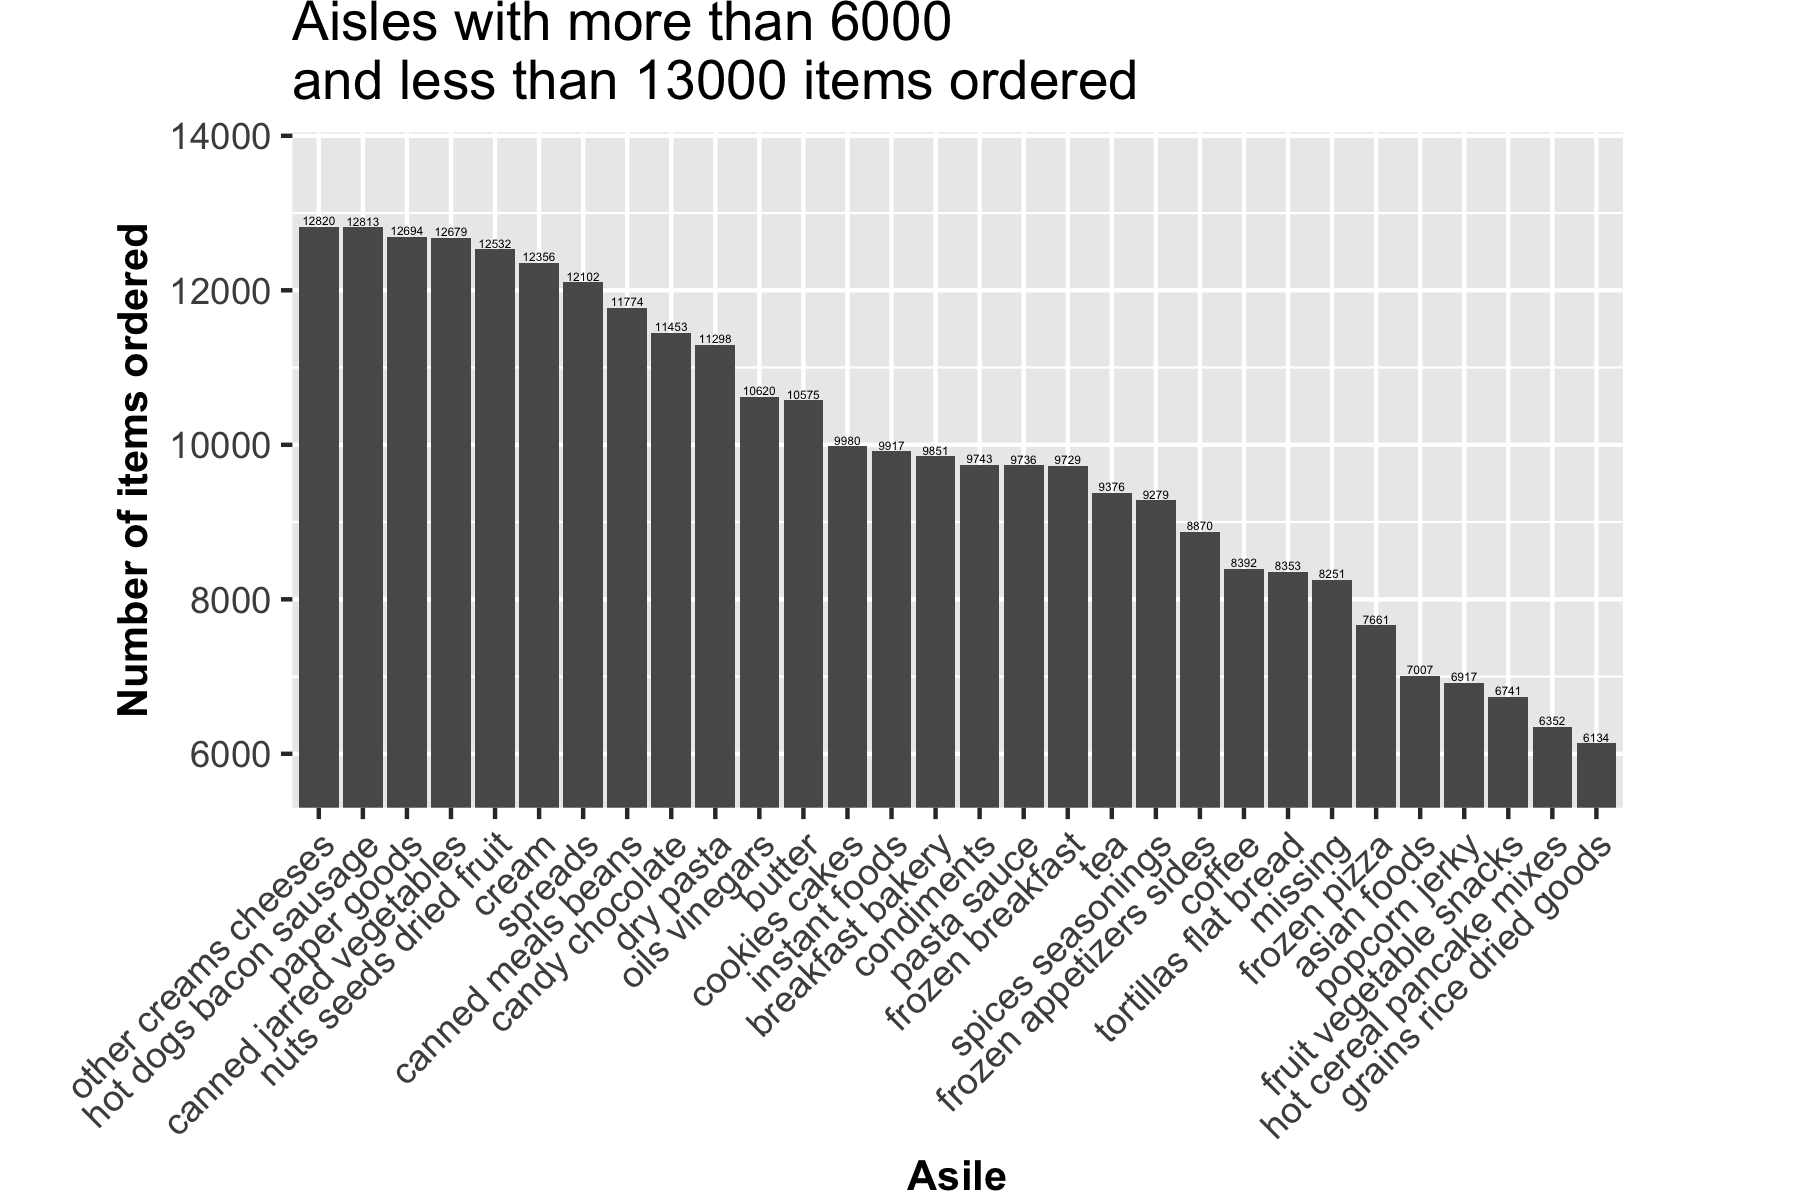
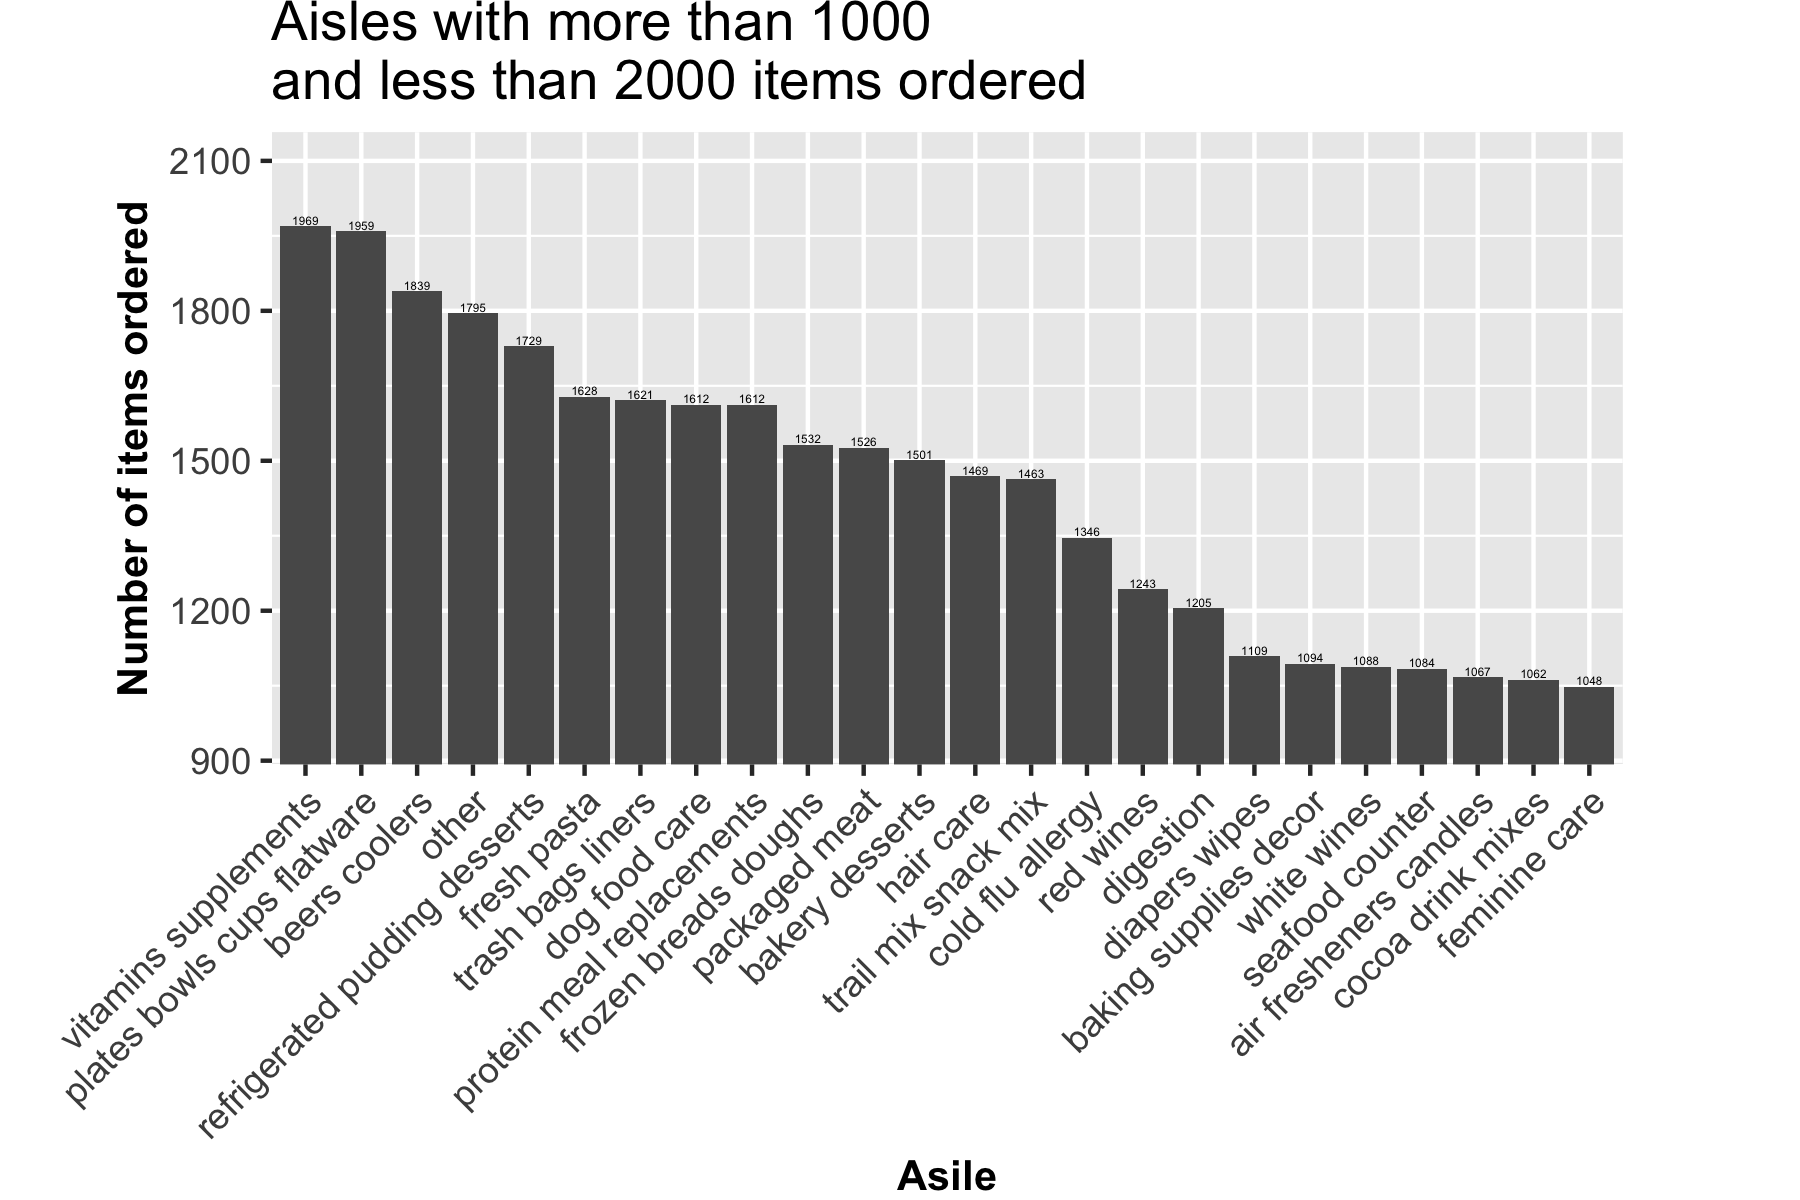
polishing the comments

Changed region(s): [[0.0311, 0.0, 0.9022, 0.9558], [0.4978, 0.9558, 0.56, 1.0]]

diff --git a/p8105_hw3_js5354.md b/p8105_hw3_js5354.md
@@ -1,12 +1,13 @@
-P8105 HW3
+P8105 Homework 3
 ================
 Jiayi Shen
-10/06/2018
+10/14/2018
 
 Problem 1
 =========
 
 ``` r
+# tidying up BRFSS data
 brfss_smart2010 = brfss_smart2010 %>% 
   janitor::clean_names() %>% 
   filter(topic == "Overall Health") %>% 
@@ -30,7 +31,7 @@ brfss_smart2010 %>%
     ## 2 FL               7
     ## 3 NC               7
 
-In 2002, CT, FL and NC were observed at 7 locations.
+In 2002, Connecticut, Florida and North Carolina were observed at 7 locations.
 
 ``` r
 # create a relevant dataframe for spaghetti plot
@@ -46,7 +47,7 @@ ggplot(spaghetti_df, aes(x = year, y = n, color = locationabbr)) +
   geom_point() +
   labs(x = "Year", 
        y = "Num. of locations",
-       title = "The number of locations in each state\nfrom 2002 to 2010") +
+       title = "Number of locations in each state from 2002 to 2010") +
    theme(legend.position = "bottom", 
          legend.text = element_text(size = 9),
          axis.title=element_text(size = 9,face = "bold")) +
@@ -55,7 +56,7 @@ ggplot(spaghetti_df, aes(x = year, y = n, color = locationabbr)) +
 
 ![](p8105_hw3_js5354_files/figure-markdown_github/spaghetti%20plot-1.png)
 
-This line plot demonstrates the number of observations each year in each state. The time frame ranges from 2002 to 2010. One line represents the trend in he number of observations in one state. Different states are colored differently.
+The line plot above shows changes in the number of locations of each state in the BRFSS data from 2002 to 2010. Lines are colored by which state they represent. It is noticable that FL had more than 40 locations submitting their responses in 2007 and 2010, which is about twice the number of locations in the other states in these two years.
 
 ``` r
 #First filter brfss data accordingly, and then calculate the mean and sd.
@@ -77,11 +78,13 @@ brfss_smart2010 %>%
 From 2002 to 2006, the average proportion of excellent response in all locations across NY dropped from 24.0% to 22.5%. And from 2006 to 2010, this proportion stayed relatively flat, around 22.5%. The variance between each location across the NY state decreased from 2002 to 2006 and then to 2010.
 
 ``` r
+# create a relevant dataframe for plotting
 brfss_state_avg = 
 brfss_smart2010 %>% 
   group_by(year, locationabbr, response) %>% 
   summarize(avg_prop = mean(data_value))
 
+# plot brfss_state_avg
 ggplot(brfss_state_avg, aes(x = year, y = avg_prop, color = locationabbr))+
   geom_line()+
   labs(x = "Year",
@@ -104,9 +107,29 @@ In general, the average proportion of responding either "excellent" or "very goo
 Problem 2
 =========
 
+``` r
+# load instacart data and have a quick look 
+data(instacart, package = "p8105.datasets") 
+head(instacart)
+```
+
+    ## # A tibble: 6 x 15
+    ##   order_id product_id add_to_cart_ord… reordered user_id eval_set
+    ##      <int>      <int>            <int>     <int>   <int> <chr>   
+    ## 1        1      49302                1         1  112108 train   
+    ## 2        1      11109                2         1  112108 train   
+    ## 3        1      10246                3         0  112108 train   
+    ## 4        1      49683                4         0  112108 train   
+    ## 5        1      43633                5         1  112108 train   
+    ## 6        1      13176                6         0  112108 train   
+    ## # ... with 9 more variables: order_number <int>, order_dow <int>,
+    ## #   order_hour_of_day <int>, days_since_prior_order <int>,
+    ## #   product_name <chr>, aisle_id <int>, department_id <int>, aisle <chr>,
+    ## #   department <chr>
+
 The `instacart` dataset contains 1384617 observations and 15 variables, storing information related to orders placed on the instacart app. The dataset not only includes numeric variables, such as order ID and user ID, but also character variables like descriptive product names and department names, and a logical variable `reordered` stating whether the order was placed first time or not.
 
-Taking `order_id` =1 placed by `user_id` = 112108 as an example, this specific order was consist of 8 items with their `product_id`, `product_name` and the order in which each item was added to the cart (`add_to_cart_order`) stated. If `reordered` =1, it means that the particular item was not the first time that customer purchased. `order_number` refers to the sequence number of this order that the user placed. In this order, the user purchased four of everything. `order_dow` = 4 and `order_hour_of_day` =12 means this order was placed on a Thursday on 12pm. It had been 30 days (`days_since_prior_order` = 30) since this user placed his/her last order on instacart. Information related to the location of each product in the supermarket is specified in `aisle_id`, `aisle`, `department_id` and `department`.
+Taking `order_id` =1 placed by `user_id` = 112108 as an example, this specific order was consist of 8 items with their `product_id`, `product_name` and the order in which each item was added to the cart (`add_to_cart_order`) stated. If `reordered` =1, it means that the particular item was not the first time that customer purchased. `order_number` refers to the sequence number of this order that the user placed. In this case, the user purchased four of everything. `order_dow` = 4 and `order_hour_of_day` =12 means this order was placed on a Thursday on 12pm. It had been 30 days (`days_since_prior_order` = 30) since this user placed his/her last order on instacart. Information related to the location of each product in the supermarket is specified in `aisle_id`, `aisle`, `department_id` and `department`.
 
 ``` r
 # The number of distinct aisles
@@ -151,7 +174,7 @@ instacart %>%
     ## 10 bread                          23635
     ## # ... with 124 more rows
 
-Fresh fruits and vegetables are the two aisles from which most items are ordered. The frequency of fresh fruits/vegetables appeared in this dataset almost double the frequency of the third most popular aisle, packaged vegetables fruits.
+There are in total 134 aisles. Among these, fresh fruits and fresh vegetables are the two aisles from which most items are ordered. The frequency of fresh fruits/vegetables appeared in this dataset almost double the frequency of the third most popular aisle, packaged vegetables fruits.
 
 ``` r
 # create a relevant dataframe for further plotting
@@ -161,7 +184,7 @@ instacart %>%
   summarize(n = n()) %>% 
   arrange(desc(n))
 
-# create a function to plot aisles with item number within specific interval.
+# create a function to plot aisles with item number within a specific interval.
 plot_aisle = function (lower_lim, upper_lim){
 
   ggplot(filter(aisle_freq, n >= lower_lim & n < upper_lim), aes(x = reorder(aisle, -n), y = n)) +
@@ -182,13 +205,13 @@ aisle_p3 = plot_aisle (2000, 6000)
 aisle_p4 = plot_aisle (6000, 13000)
 aisle_p5 = plot_aisle (13000, 151000)
 
-aisle_p1  
+aisle_p5  
 ```
 
 ![](p8105_hw3_js5354_files/figure-markdown_github/plotting%20n.%20of%20items%20in%20each%20aisle-1.png)
 
 ``` r
-aisle_p2  
+aisle_p4  
 ```
 
 ![](p8105_hw3_js5354_files/figure-markdown_github/plotting%20n.%20of%20items%20in%20each%20aisle-2.png)
@@ -200,16 +223,18 @@ aisle_p3
 ![](p8105_hw3_js5354_files/figure-markdown_github/plotting%20n.%20of%20items%20in%20each%20aisle-3.png)
 
 ``` r
-aisle_p4 
+aisle_p2 
 ```
 
 ![](p8105_hw3_js5354_files/figure-markdown_github/plotting%20n.%20of%20items%20in%20each%20aisle-4.png)
 
 ``` r
-aisle_p5 
+aisle_p1 
 ```
 
 ![](p8105_hw3_js5354_files/figure-markdown_github/plotting%20n.%20of%20items%20in%20each%20aisle-5.png)
+
+The 5 bar charts above demonstrate the number of items ordered in the 134 aisles in `instacart` dataset. Bars are ordered descendingly from left to right in every subplot. The range of items ordered across different asiles is very broad, from less than 300 to over 150,000.
 
 ``` r
 # make a table showing the most popular item in aisles "baking ingredients", "dog food care", "packaged vegetables fruits"
@@ -233,6 +258,7 @@ instacart %>%
 The most popular item in aisles "baking ingredients", "dog food care", "packaged vegetables fruits" are "Light Brown Sugar", "Snack Sticks Chicken & Rice Recipe Dog Treats", and "Organic Baby Spinach" respectively. A total of 9784 portions of "Organic Baby Spinach" were purchased in this data.
 
 ``` r
+# filter product_name and then make adjustments to date/time variables accordingly.
 instacart %>% 
   filter(product_name %in% c("Pink Lady Apples", "Coffee Ice Cream")) %>% 
   group_by(order_dow) %>% 
@@ -263,6 +289,21 @@ Generally, Pink Lady Apples and Coffee Ice Cream are ordered in early afternoon,
 
 Problem 3
 =========
+
+``` r
+data(ny_noaa, package = "p8105.datasets")
+head(ny_noaa)
+```
+
+    ## # A tibble: 6 x 7
+    ##   id          date        prcp  snow  snwd tmax  tmin 
+    ##   <chr>       <date>     <int> <int> <int> <chr> <chr>
+    ## 1 US1NYAB0001 2007-11-01    NA    NA    NA <NA>  <NA> 
+    ## 2 US1NYAB0001 2007-11-02    NA    NA    NA <NA>  <NA> 
+    ## 3 US1NYAB0001 2007-11-03    NA    NA    NA <NA>  <NA> 
+    ## 4 US1NYAB0001 2007-11-04    NA    NA    NA <NA>  <NA> 
+    ## 5 US1NYAB0001 2007-11-05    NA    NA    NA <NA>  <NA> 
+    ## 6 US1NYAB0001 2007-11-06    NA    NA    NA <NA>  <NA>
 
 The `ny_noaa` dataset contains 2595176 records and 7 variables relevant to national-wise daily weather data. The records are reported from 747 distinct stations, from 1981-01-01 to 2010-12-31. Precipitation (in tenths of mm), snowfall (in mm), snow depth (in mm) and maximun / minimum temperature (in tenths of degree C) are the variables included in this dataset.
 
@@ -364,6 +405,7 @@ filter (avg_temp_jul, avg_temp == min(avg_temp_jul$avg_temp))
 In general, the average temperature in January/July in each station of NY state follows relatively similar pattern across 1980 to 2010. However, there are two noticable outliers: the average temperature of -20.2 degrees C in January 1996 and the one of 14.0 degrees C in July 2007.
 
 ``` r
+# plotting tmax vs tmin using geom_bin2d
 tmax_tmin_plot = 
 ny_noaa %>% 
   na.omit(cols= c("tmax_dC", "tmin_dC")) %>% 
@@ -375,6 +417,7 @@ ny_noaa %>%
 ```
 
 ``` r
+# plott distribution of snowfall values with geom_density_ridges
 snowfall_plot = 
 ny_noaa  %>% 
   na.omit(cols = "snow_mm") %>% 
